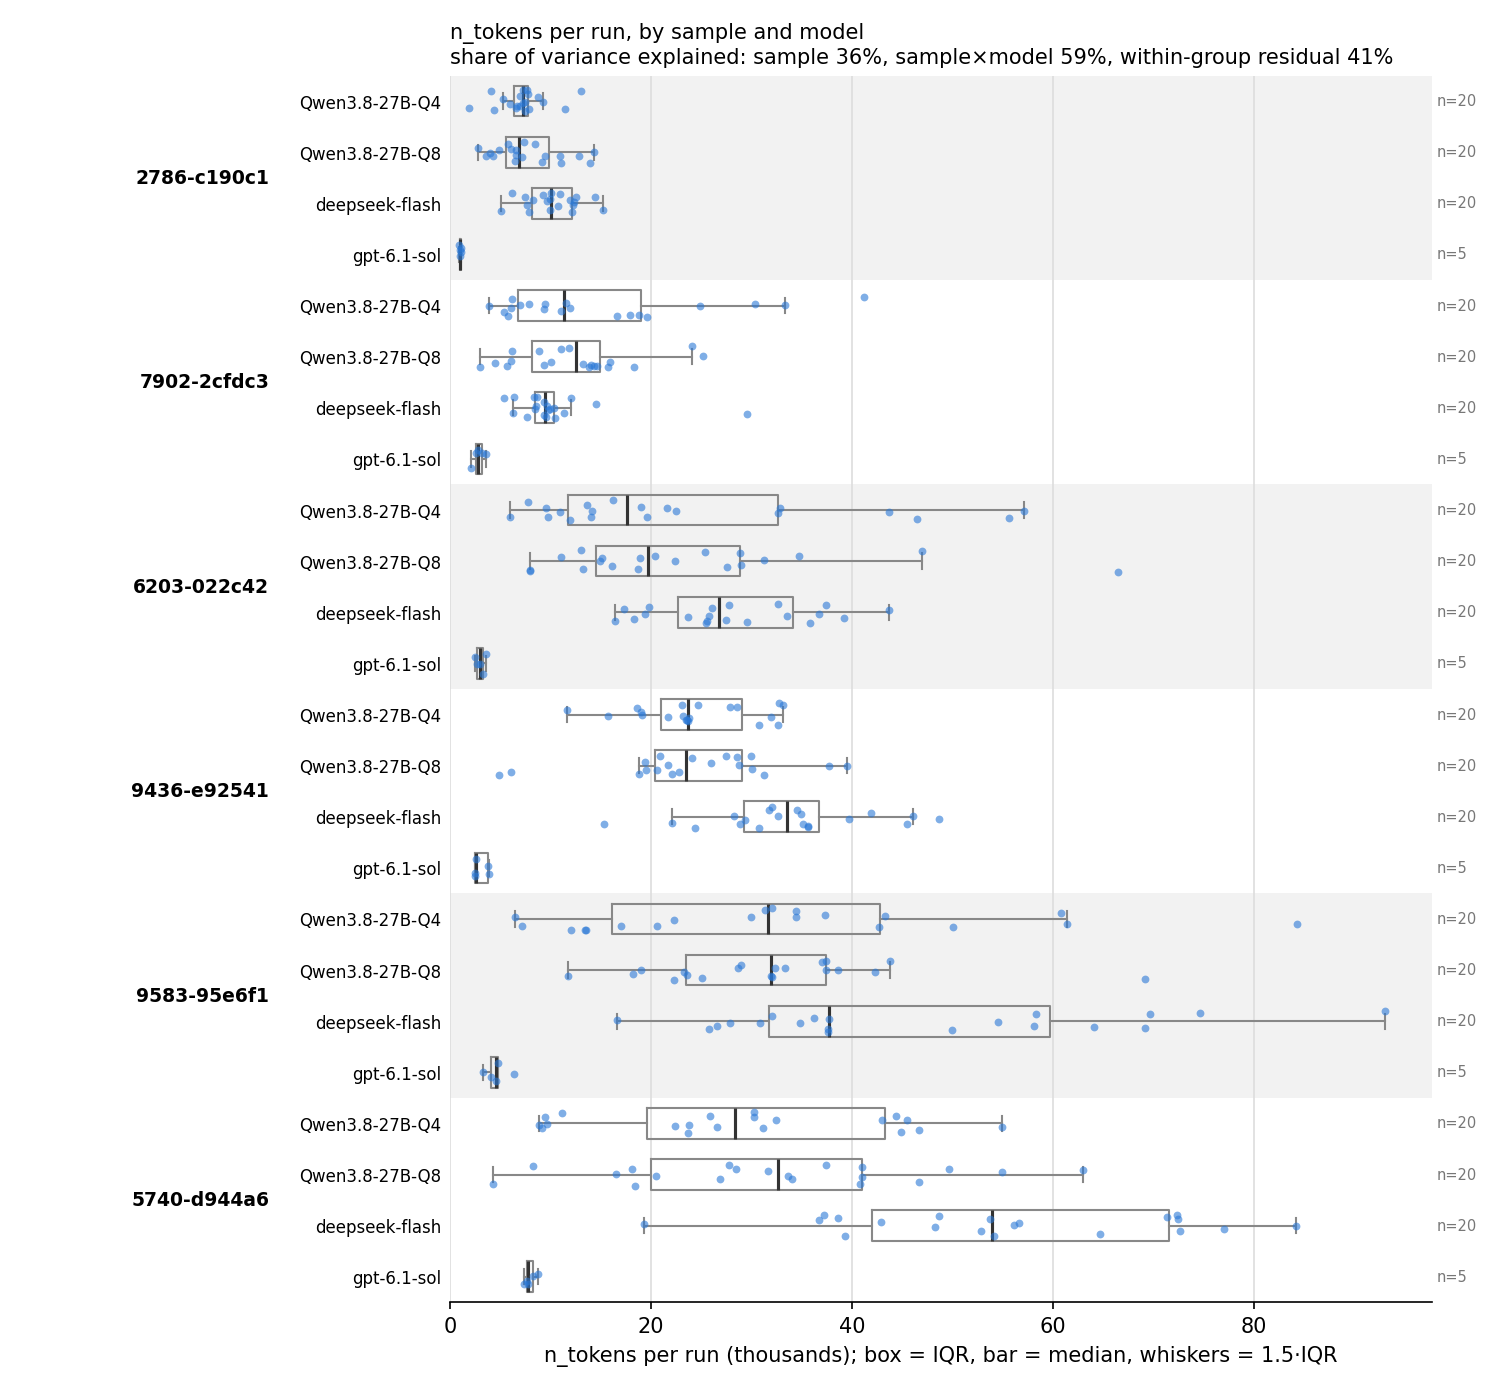
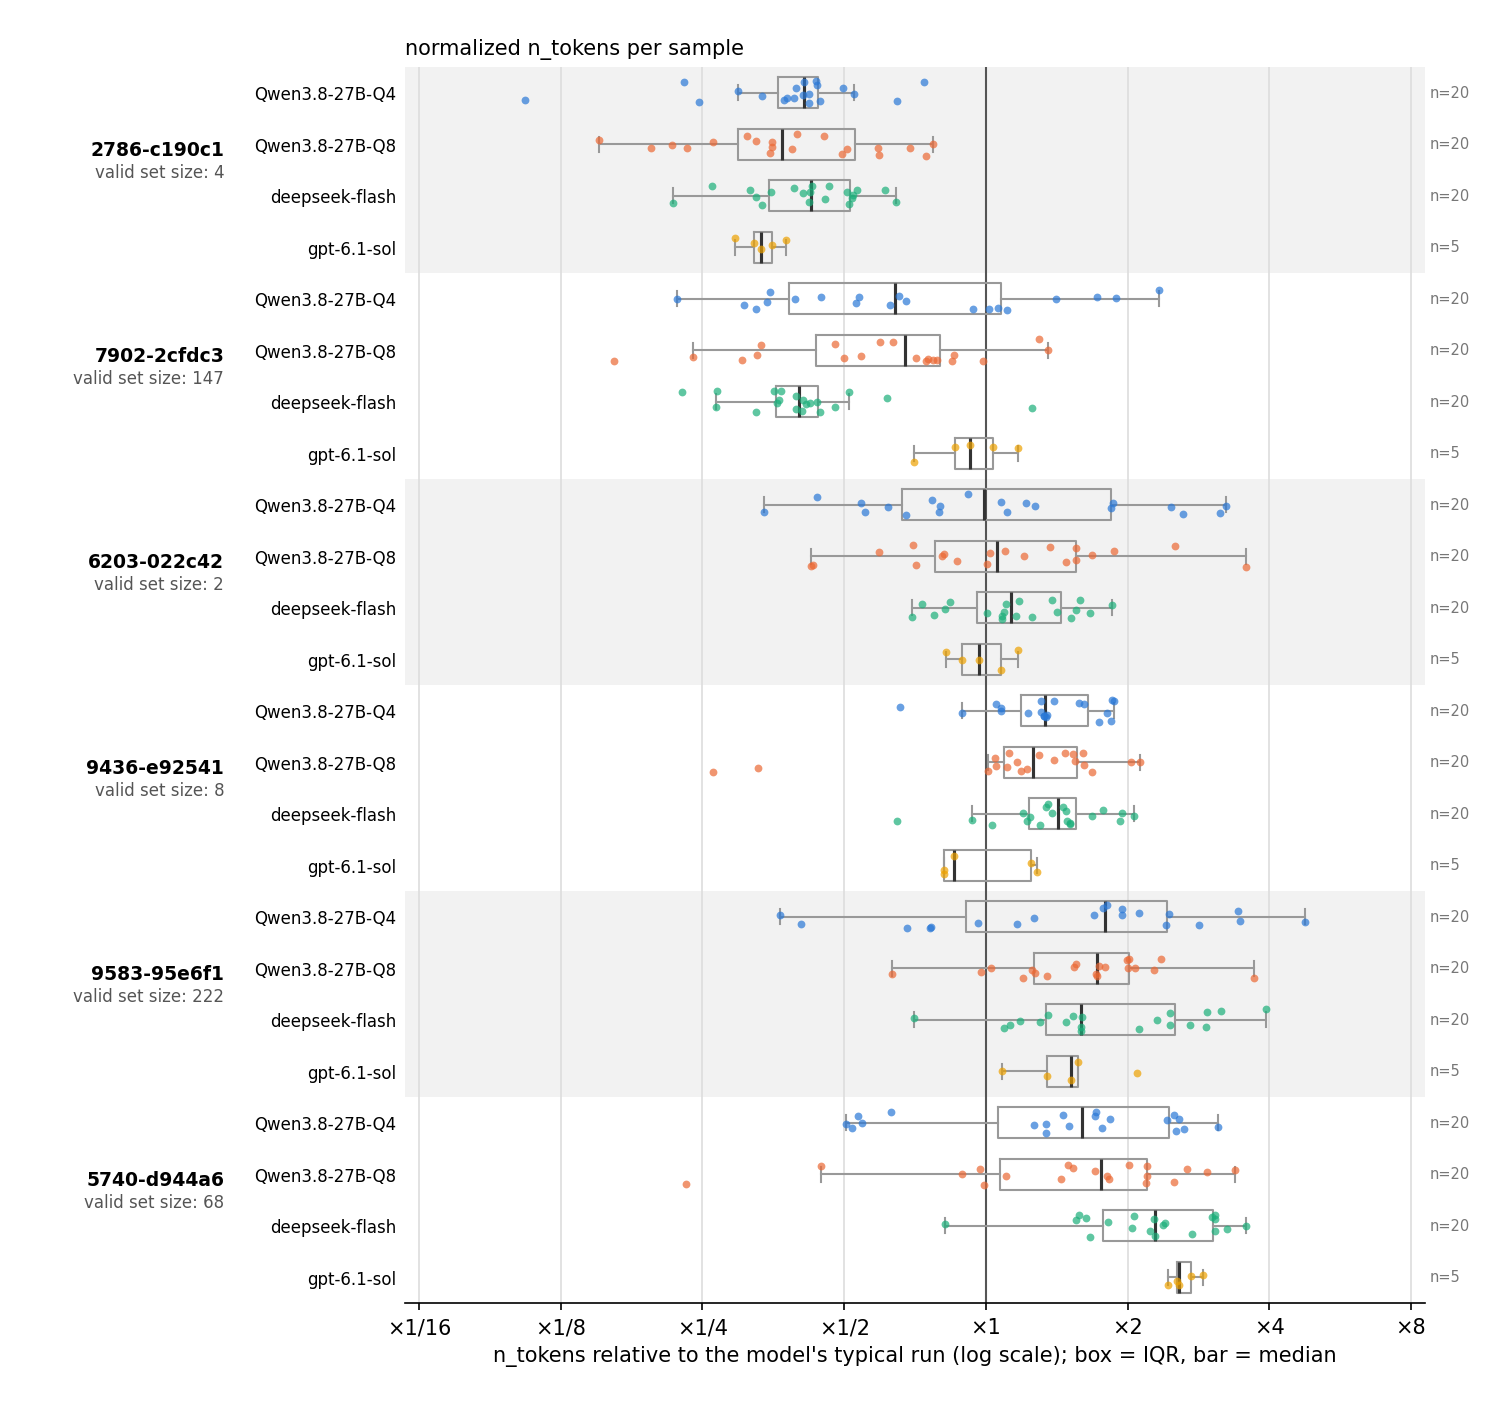
variance charts

diff --git a/scripts/plot_variance.py b/scripts/plot_variance.py
@@ -1,73 +1,210 @@
 import argparse
+import json
+import sys
 from pathlib import Path
 
+import matplotlib.patheffects as pe
 import matplotlib.pyplot as plt
 import numpy as np
 import pandas as pd
+from matplotlib.ticker import FixedLocator, NullLocator
+from scipy import stats
 
 # built by claude
 
-DOT = "#2a78d6"
+# posterior lives in the repo root
+sys.path.insert(0, str(Path(__file__).resolve().parent.parent))
+import noisy_mm  # noqa: E402
+from greedy_player import posterior  # noqa: E402
+
+# fixed categorical order; a model keeps its color whatever --models selects
+COLORS = ["#2a78d6", "#eb6834", "#1baf7a", "#eda100", "#e87ba4", "#008300"]
 BAND = "#f2f2f2"
 
 
-def load(path):
+def valid_set_size(path):
+    # valid_set_size is recorded before each guess, so the last turn's value is the candidate set
+    # left after turns[:-1] -- exactly the history the model sees when making its final guess
+    with open(path) as f:
+        return json.load(f)["turns"][-1]["valid_set_size"]
+
+
+def top_choice(path):
+    """p of the most likely candidate after turns[:-1], and how many times likelier it is than the runner-up."""
+    with open(path) as f:
+        sample = json.load(f)
+    history = [(t["guess"], *map(int, t["reply"].split())) for t in sample["turns"][:-1]]
+    p = np.sort(np.array(list(posterior(noisy_mm.DATASET, history, sample["p_corr"]).values())))[::-1]
+    p = p / p.sum()
+    return p[0], (p[0] / p[1] if len(p) > 1 else np.inf)
+
+
+def load(path, models=None):
     df = pd.read_csv(path).dropna(subset=["n_tokens"])
     df["sample"] = df["path"].map(lambda p: Path(p).stem)
-    # order samples by overall median so the between-sample spread reads top to bottom
-    order = df.groupby("sample")["n_tokens"].median().sort_values().index.tolist()
-    return df, order
+    all_models = sorted(df["model"].unique())
+    color = {m: COLORS[i % len(COLORS)] for i, m in enumerate(all_models)}
+    if models:
+        df = df[df["model"].isin(models)]
+    df["log_t"] = np.log2(df["n_tokens"])
+    # remove each model's overall scale: per-sample median in log space, averaged over samples,
+    # so a model with fewer runs per sample still weighs every sample equally
+    med = df.groupby(["model", "sample"])["log_t"].median()
+    df["rel"] = df["log_t"] - df["model"].map(med.groupby("model").mean())
+    order = df.groupby(["sample", "model"])["rel"].median().groupby("sample").mean().sort_values().index.tolist()
+    vss = {Path(p).stem: valid_set_size(p) for p in df["path"].unique()}
+    top = {Path(p).stem: top_choice(p) for p in df["path"].unique()}
+    return df, order, color, vss, top
 
 
-def eta2(df, keys):
-    """Share of total n_tokens variance explained by group means over `keys`."""
-    t = df["n_tokens"]
-    means = df.groupby(keys)["n_tokens"].transform("mean")
-    return ((means - t.mean()) ** 2).sum() / ((t - t.mean()) ** 2).sum()
+def decompose(df):
+    """Sequential sums of squares for log2 n_tokens: model, then sample, then sample×model, residual."""
+    y = df["log_t"].to_numpy()
+    terms = [("model", ["model"]), ("sample", ["model", "sample"]), ("sample×model", ["model", "sample", "inter"])]
+    d = df.assign(inter=df["sample"] + "|" + df["model"])
+    total = ((y - y.mean()) ** 2).sum()
+    prev, out = total, {}
+    for name, cols in terms:
+        X = pd.get_dummies(d[cols], drop_first=True, dtype=float).to_numpy()
+        X = np.column_stack([np.ones(len(y)), X])
+        resid = y - X @ np.linalg.lstsq(X, y, rcond=None)[0]
+        ss = (resid ** 2).sum()
+        out[name] = (prev - ss) / total
+        prev = ss
+    out["within"] = prev / total
+    return out
 
 
-def plot(df, order, out):
-    models = sorted(df["model"].unique())
-    rows = [(s, m) for s in order for m in models if ((df["sample"] == s) & (df["model"] == m)).any()]
-    ypos = {r: i for i, r in enumerate(rows)}
-    rng = np.random.default_rng(0)
-    pad = 5.2 * max(len(m) for m in models) + 14  # rough width of the model tick labels at fontsize 8
+def concordance(df):
+    """Per-sample median rel per model; Spearman between model pairs and Kendall's W across models."""
+    m = df.groupby(["sample", "model"])["rel"].median().unstack()
+    m = m.dropna()  # only samples every model ran
+    rho = m.corr(method="spearman")
+    k, n = m.shape[1], m.shape[0]
+    R = m.rank().sum(axis=1)
+    W = 12 * ((R - R.mean()) ** 2).sum() / (k ** 2 * (n ** 3 - n))
+    return m, rho, W
 
-    fig, ax = plt.subplots(figsize=(10, 0.32 * len(rows) + 1.6))
 
-    # alternating background band per sample
-    for k, s in enumerate(order):
-        ys = [ypos[r] for r in rows if r[0] == s]
-        if k % 2 == 0:
-            ax.axhspan(min(ys) - 0.5, max(ys) + 0.5, color=BAND, zorder=0, linewidth=0)
-        # sample name sits left of the model tick labels
-        ax.annotate(s, (0, (min(ys) + max(ys)) / 2), xycoords=ax.get_yaxis_transform(), xytext=(-pad, 0),
-                    textcoords="offset points", ha="right", va="center", fontsize=9, fontweight="bold")
+def metric_corr(df, metric):
+    """Spearman between a per-sample metric and per-sample median rel, per model and for the model average."""
+    m = df.groupby(["sample", "model"])["rel"].median().unstack()
+    m["mean"] = m.mean(axis=1)
+    v = m.index.map(metric)
+    return {c: stats.spearmanr(v, m[c], nan_policy="omit").statistic for c in m.columns}
 
-    data = [df.loc[(df["sample"] == s) & (df["model"] == m), "n_tokens"].to_numpy() / 1000 for s, m in rows]
-    ax.boxplot(data, positions=range(len(rows)), vert=False, widths=0.6, showfliers=False, zorder=2,
-               medianprops=dict(color="#333", linewidth=1.5), boxprops=dict(color="#888"),
-               whiskerprops=dict(color="#888"), capprops=dict(color="#888"))
-    for i, d in enumerate(data):
-        ax.scatter(d, i + rng.uniform(-0.22, 0.22, len(d)), s=14, color=DOT, alpha=0.6, linewidths=0, zorder=3)
-        ax.text(1.005, i, f"n={len(d)}", transform=ax.get_yaxis_transform(), va="center", fontsize=7, color="#777")
 
-    ax.set_yticks(range(len(rows)), [m for _, m in rows], fontsize=8)
-    ax.tick_params(axis="y", length=0, pad=4)
-    ax.set_ylim(len(rows) - 0.5, -0.5)
-    ax.set_xlim(left=0)
-    ax.set_xlabel("n_tokens per run (thousands); box = IQR, bar = median, whiskers = 1.5·IQR")
+def set_xaxis(ax, x, raw, note):
+    """Ticks for log2 values: token counts when raw, multipliers of the model's typical run otherwise."""
+    lo, hi = x.min(), x.max()
+    if raw:
+        nice = np.sort((np.array([1, 2, 5]) * 10.0 ** np.arange(2, 7)[:, None]).ravel())
+        nice = nice[(np.log2(nice) >= lo - 0.5) & (np.log2(nice) <= hi + 0.5)]
+        ticks, labels = np.log2(nice), [f"{n / 1000:g}k" for n in nice]
+        xlabel = f"n_tokens per run (log scale); {note}"
+    else:
+        ax.axvline(0, color="#555", linewidth=1, zorder=1)
+        ticks = np.arange(np.floor(lo), np.ceil(hi) + 1)
+        labels = [f"×{2 ** t:g}" if t >= 0 else f"×1/{2 ** -t:g}" for t in ticks]
+        xlabel = f"n_tokens relative to the model's typical run (log scale); {note}"
+    ax.xaxis.set_major_locator(FixedLocator(ticks))
+    ax.xaxis.set_minor_locator(NullLocator())
+    ax.set_xticklabels(labels)
+    ax.set_xlim(lo - 0.15, hi + 0.15)
+    ax.set_xlabel(xlabel)
     ax.grid(axis="x", color="#ddd", linewidth=0.8)
     ax.set_axisbelow(True)
     for s in ("top", "right", "left"):
         ax.spines[s].set_visible(False)
 
-    e_s, e_sm = eta2(df, ["sample"]), eta2(df, ["sample", "model"])
-    ax.set_title(f"n_tokens per run, by sample and model\nshare of variance explained: sample {e_s:.0%}, "
-                 f"sample×model {e_sm:.0%}, within-group residual {1 - e_sm:.0%}", fontsize=10, loc="left")
 
-    fig.tight_layout()
-    fig.subplots_adjust(left=0.3)
+def plot_scatter(df, order, color, vss, out, raw=False):
+    """One row per sample, all models' runs in the same row; easiest sample at the bottom."""
+    models = sorted(df["model"].unique())
+    col = "log_t" if raw else "rel"
+    row = {s: i for i, s in enumerate(order)}
+    rng = np.random.default_rng(0)
+
+    fig, ax = plt.subplots(figsize=(10, 0.6 * len(order) + 1.6))
+    for i in range(0, len(order), 2):
+        ax.axhspan(i - 0.5, i + 0.5, color=BAND, zorder=0, linewidth=0)
+    for m in models:
+        d = df[df["model"] == m]
+        ax.scatter(d[col], d["sample"].map(row) + rng.uniform(-0.25, 0.25, len(d)), s=16, color=color[m],
+                   alpha=0.7, linewidths=0, zorder=3, label=m)
+        for s, v in d.groupby("sample")[col].median().items():
+            ax.plot([v, v], [row[s] - 0.35, row[s] + 0.35], color=color[m], linewidth=2.5, zorder=4,
+                    path_effects=[pe.Stroke(linewidth=4.5, foreground="white"), pe.Normal()])
+
+    set_xaxis(ax, df[col], raw, "bar = median")
+    ax.set_yticks(range(len(order)), [f"{s}\nvalid set size: {vss[s]}" for s in order], fontsize=8)
+    ax.tick_params(axis="y", length=0, pad=4)
+    ax.set_ylim(-0.5, len(order) - 0.5)
+    ax.legend(loc="lower left", bbox_to_anchor=(0, 1.0), ncol=len(models), frameon=False, fontsize=8,
+              handletextpad=0.2, markerscale=1.5)
+    ax.set_title("n_tokens per sample" if raw else "normalized n_tokens per sample", fontsize=10, loc="left", pad=22)
+
+    fig.subplots_adjust(left=0.17, right=0.97, top=1 - 0.6 / fig.get_figheight(), bottom=0.7 / fig.get_figheight())
+    fig.savefig(out, dpi=150)
+    print(f"wrote {out}")
+
+
+def plot(df, order, color, vss, top, out, raw=False, by_model=False):
+    models = sorted(df["model"].unique())
+    has = set(zip(df["sample"], df["model"]))
+    # rows are (sample, model); the outer grouping is by sample, or by model with --by-model
+    if by_model:
+        groups = models
+        # easiest sample at the bottom of each block, so medians step up and to the right
+        rows = [(s, m) for m in models for s in reversed(order) if (s, m) in has]
+        group_of = lambda r: r[1]
+        tick = lambda r: (f"{r[0]}\nvalid set {vss[r[0]]} · p_top {top[r[0]][0]:.2f}"
+                          f" · top/2nd ×{top[r[0]][1]:.1f}")
+    else:
+        groups = order
+        rows = [(s, m) for s in order for m in models if (s, m) in has]
+        group_of, tick = (lambda r: r[0]), (lambda r: r[1])
+    rng = np.random.default_rng(0)
+    # rough width of the widest tick label line at fontsize 8
+    pad = 5.2 * max(len(line) for r in rows for line in tick(r).split("\n")) + 14
+
+    fig, ax = plt.subplots(figsize=(10, (0.42 if by_model else 0.3) * len(rows) + 2.2))
+
+    for k, g in enumerate(groups):
+        ys = [i for i, r in enumerate(rows) if group_of(r) == g]
+        if k % 2 == 0:
+            ax.axhspan(min(ys) - 0.5, max(ys) + 0.5, color=BAND, zorder=0, linewidth=0)
+        mid = (min(ys) + max(ys)) / 2
+        if by_model:
+            # vertical, since the sample tick labels already take the horizontal room
+            ax.annotate(g, (0, mid), xycoords=ax.get_yaxis_transform(), xytext=(-pad, 0), rotation=90,
+                        textcoords="offset points", ha="right", va="center", fontsize=9, fontweight="bold")
+            continue
+        ax.annotate(g, (0, mid), xycoords=ax.get_yaxis_transform(), xytext=(-pad, 5),
+                    textcoords="offset points", ha="right", va="bottom", fontsize=9, fontweight="bold")
+        ax.annotate(f"valid set size: {vss[g]}", (0, mid), xycoords=ax.get_yaxis_transform(), xytext=(-pad, 3),
+                    textcoords="offset points", ha="right", va="top", fontsize=8, color="#555")
+
+    # both are log2 values, so boxes and dots are drawn the same way; only the ticks differ
+    col = "log_t" if raw else "rel"
+    data = [df.loc[(df["sample"] == s) & (df["model"] == m), col].to_numpy() for s, m in rows]
+    ax.boxplot(data, positions=range(len(rows)), vert=False, widths=0.6, showfliers=False, zorder=2,
+               medianprops=dict(color="#333", linewidth=1.5), boxprops=dict(color="#999"),
+               whiskerprops=dict(color="#999"), capprops=dict(color="#999"))
+    for i, ((s, m), d) in enumerate(zip(rows, data)):
+        ax.scatter(d, i + rng.uniform(-0.22, 0.22, len(d)), s=14, color=color[m], alpha=0.7, linewidths=0, zorder=3)
+        ax.text(1.005, i, f"n={len(d)}", transform=ax.get_yaxis_transform(), ha="left", va="center", fontsize=7, color="#777")
+
+    set_xaxis(ax, df[col], raw, "box = IQR, bar = median")
+    ax.set_yticks(range(len(rows)), [tick(r) for r in rows], fontsize=8)
+    ax.tick_params(axis="y", length=0, pad=4)
+    ax.set_ylim(len(rows) - 0.5, -0.5)
+
+    ax.set_title("n_tokens per sample" if raw else "normalized n_tokens per sample", fontsize=10, loc="left")
+
+    # leave room for the tick labels plus the group label to their left (pad is in points, 72 per inch)
+    left = max(0.27, (pad + 28) / (72 * fig.get_figwidth()))
+    fig.subplots_adjust(left=left, right=0.95, top=1 - 0.45 / fig.get_figheight(), bottom=0.7 / fig.get_figheight())
     fig.savefig(out, dpi=150)
     print(f"wrote {out}")
 
@@ -76,14 +213,34 @@ def main():
     p = argparse.ArgumentParser()
     p.add_argument("--csv", default="out/per_sample.csv")
     p.add_argument("--out", default="out/variance.png")
+    p.add_argument("--models", nargs="+", help="only these models (default: all)")
+    p.add_argument("--raw", action="store_true", help="plot raw n_tokens on a log scale instead of normalized per model")
+    p.add_argument("--by-model", action="store_true", help="group rows by model instead of by sample")
+    p.add_argument("--scatter", action="store_true", help="one row per sample with all models' runs as dots, no boxes")
     p.add_argument("--show", action="store_true")
     args = p.parse_args()
 
-    df, order = load(args.csv)
-    g = df.groupby(["sample", "model"])["n_tokens"].agg(["size", "mean", "median", "std"])
-    g["cv"] = g["std"] / g["mean"]
-    print(g.round(2).to_string())
-    plot(df, order, args.out)
+    df, order, color, vss, top = load(args.csv, args.models)
+    g = df.groupby(["sample", "model"])["n_tokens"].agg(["size", "median"]).unstack()
+    print(g.to_string(), "\n")
+    shares = decompose(df)
+    print("share of log2 n_tokens variance:", {k: round(v, 3) for k, v in shares.items()})
+    m, rho, W = concordance(df)
+    print("\nper-sample median, relative to model (log2):\n", m.round(2).to_string())
+    print("\nspearman between models (sample medians):\n", rho.round(2).to_string())
+    print(f"\nKendall's W = {W:.3f} over {m.shape[0]} samples, {m.shape[1]} models")
+    print("\nper sample: valid set size, p_top, top/2nd")
+    for s in order:
+        print(f"  {s}  {vss[s]:4d}  {top[s][0]:.3f}  {top[s][1]:.2f}")
+    # higher p_top / ratio means an easier choice, so flip the sign to compare with difficulty
+    for name, metric in [("valid set size", vss), ("-p_top", {s: -v[0] for s, v in top.items()}),
+                         ("-top/2nd", {s: -v[1] for s, v in top.items()})]:
+        rho = metric_corr(df, metric)
+        print(f"spearman({name}, sample median rel):", {k: round(v, 2) for k, v in rho.items()})
+    if args.scatter:
+        plot_scatter(df, order, color, vss, args.out, args.raw)
+    else:
+        plot(df, order, color, vss, top, args.out, args.raw, args.by_model)
     if args.show:
         plt.show()
 
